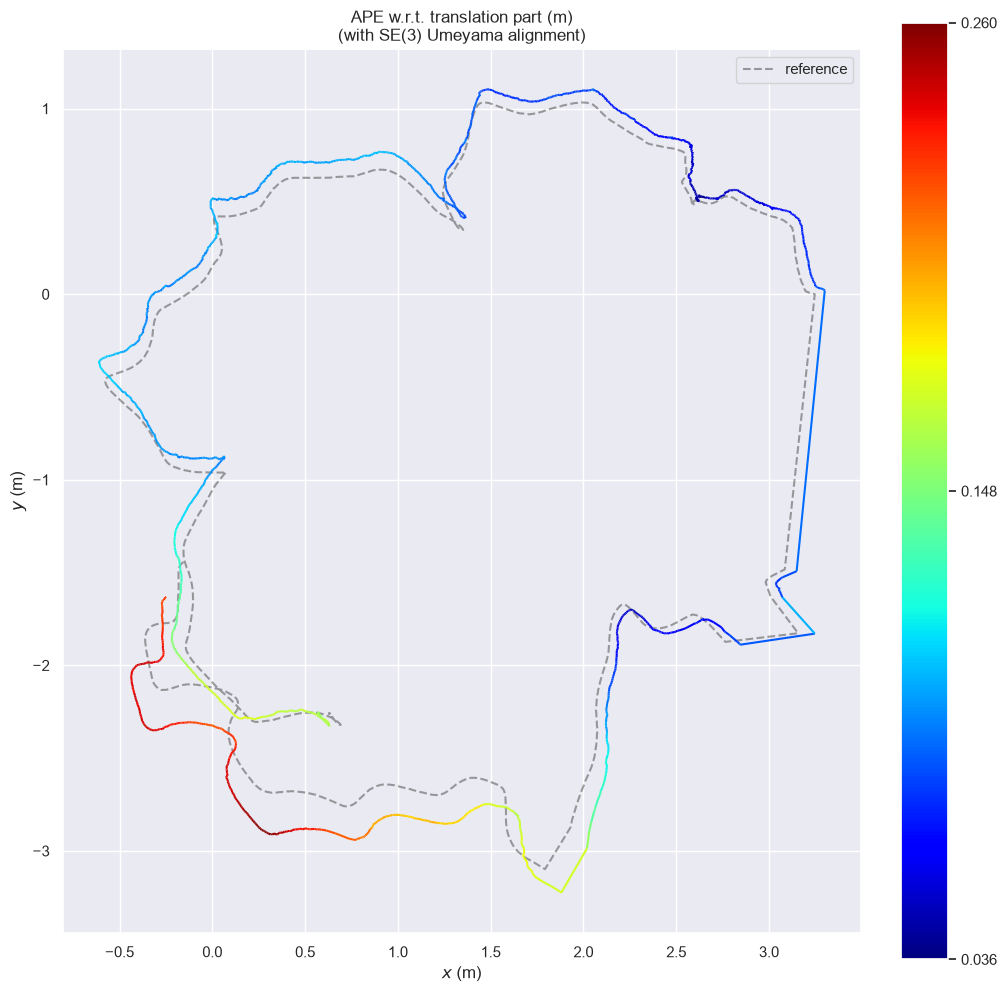
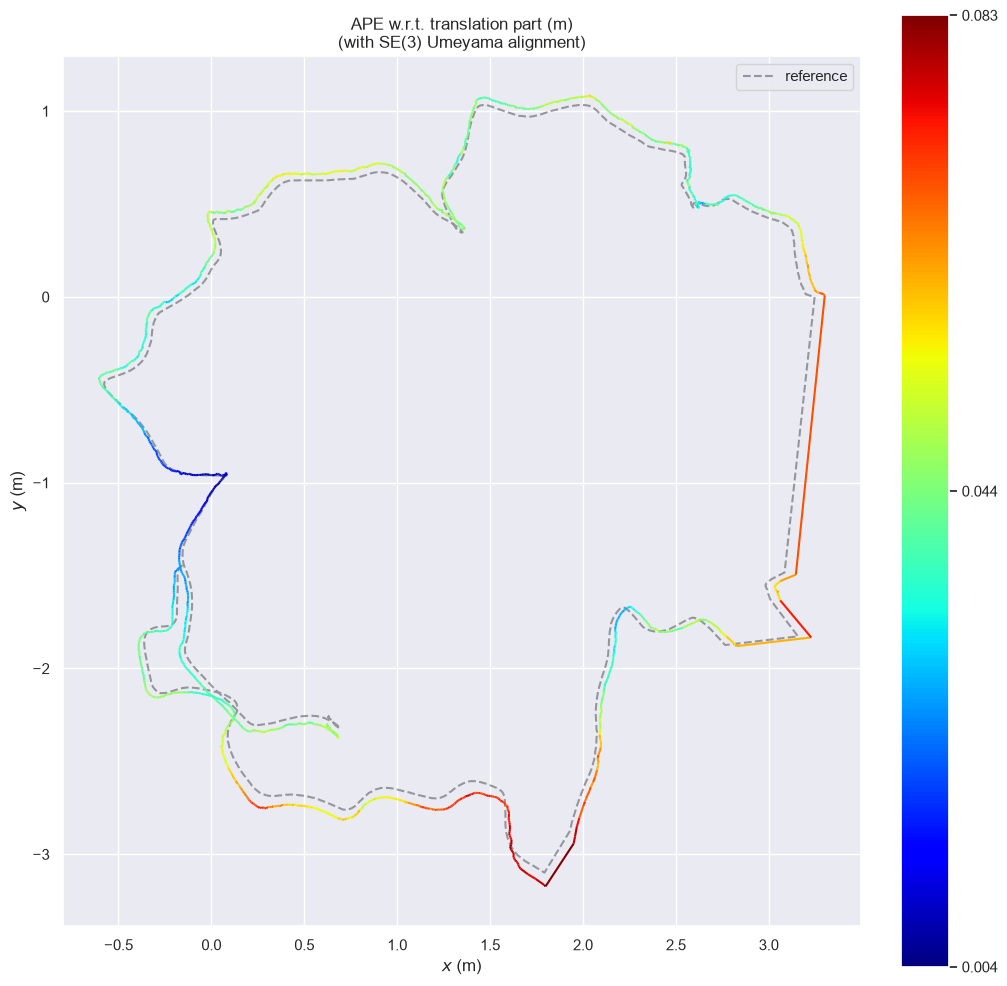
Use a sparse solver for the pose graph when available; fix loop-closure map image

diff --git a/src/pose_graph.cpp b/src/pose_graph.cpp
@@ -51,16 +51,13 @@ struct RelativePoseError {
 
 void PoseGraph::checkId(int id) const {
     if (id < 0 || id >= numNodes()) {
-        throw std::out_of_range("PoseGraph: invalid node id " + std::to_string(id)); 
+        throw std::out_of_range("PoseGraph: invalid node id " + std::to_string(id));
     }
 }
 
 int PoseGraph::addNode(const Pose& initial) {
-    // convert current pose to node 
-    Eigen::Vector3d p = initial.translation();
-    Eigen::Quaterniond q = Eigen::Quaterniond(initial.rotation());
-    
-    nodes_.push_back(Node{p, q});
+    // convert current pose to node
+    nodes_.push_back(Node{initial.translation(), Eigen::Quaterniond(initial.rotation())});
     return static_cast<int>(nodes_.size()) - 1;
 }
 
@@ -72,12 +69,10 @@ void PoseGraph::addEdge(int from, int to, const Pose& measured) {
 
 Pose PoseGraph::pose(int id) const {
     checkId(id);
-
     const Node& node = nodes_[id];
     Pose res = Pose::Identity();
     res.linear() = node.q.normalized().toRotationMatrix();
     res.translation() = node.p;
-
     return res;
 }
 
@@ -86,26 +81,22 @@ void PoseGraph::optimize() {
     if (edges_.empty()) {
         return;
     }
-
     ceres::Problem problem;
 
     // One manifold object for all quaternions: it lets Ceres move a quaternion only in
     // ways that keep it a valid rotation (length 1). The problem takes ownership of it.
     ceres::Manifold* quaternion_manifold = new ceres::EigenQuaternionManifold;
 
-    for (const Edge& e: edges_) {
+    for (const Edge& e : edges_) {
         Node& a = nodes_[e.from];
         Node& b = nodes_[e.to];
-
         problem.AddResidualBlock(
             RelativePoseError::create(e.measured),
             nullptr,   // no robust loss (plain squared error)
             a.p.data(), a.q.coeffs().data(),
-            b.p.data(), b.q.coeffs().data());    
-        
+            b.p.data(), b.q.coeffs().data());
         problem.SetManifold(a.q.coeffs().data(), quaternion_manifold);
         problem.SetManifold(b.q.coeffs().data(), quaternion_manifold);
-
     }
 
     // Fix node 0: moving all poses together wouldn't change any relative motion,
@@ -118,8 +109,13 @@ void PoseGraph::optimize() {
     }
 
     ceres::Solver::Options options;
-    options.linear_solver_type = ceres::DENSE_QR;   
-    options.logging_type = ceres::SILENT;           
+    // Sparse when Ceres was built with a sparse library: each edge touches only 2 nodes,
+    // so the problem is mostly zeros and a sparse solver skips them. Otherwise dense.
+    options.linear_solver_type =
+    options.sparse_linear_algebra_library_type != ceres::NO_SPARSE
+        ? ceres::SPARSE_NORMAL_CHOLESKY
+        : ceres::DENSE_QR;
+    options.logging_type = ceres::SILENT;
     ceres::Solver::Summary summary;
     ceres::Solve(options, &problem, &summary);
 }
